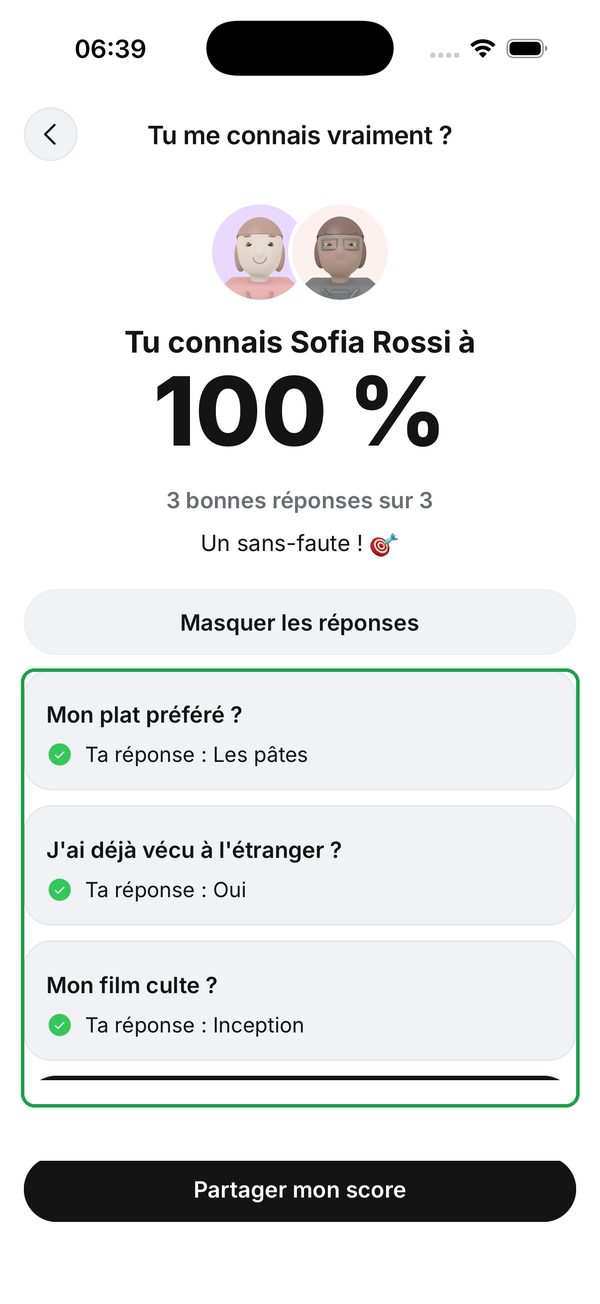
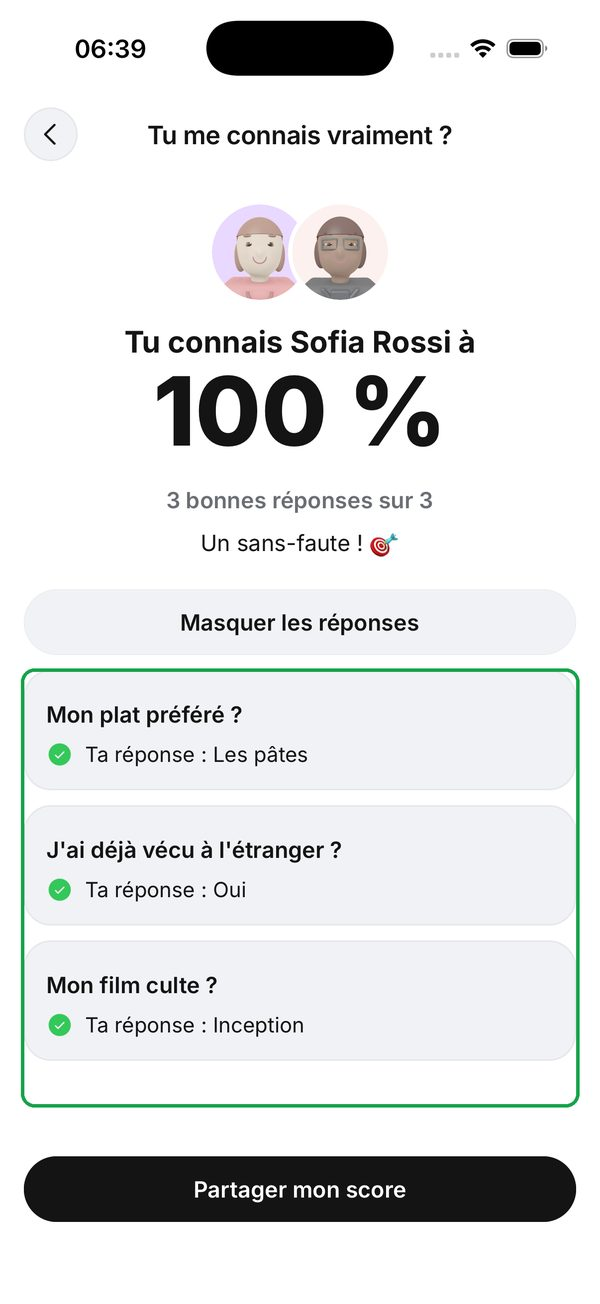
Musk, 2e passage : 34 points après relecture (deux déjà décidés ailleurs, 33 et 134) (e0)

Changed region(s): [[0.09, 0.7975, 0.93, 0.8282]]

diff --git a/musk-2/index.html b/musk-2/index.html
@@ -34,13 +34,13 @@ code { font-size:12px; background:var(--bg); border:1px solid var(--line); borde
 <body>
 <main>
 <h1>Take · loi de Musk, 2e passage</h1>
-<p class="lead">36 choses à enlever ou à simplifier (26 à supprimer · 5 à fusionner · 2 à cacher · 2 à simplifier · 1 à déplacer), tirées de 7 tours complets de l'app (275 écrans), chacune vérifiée dans le code de main. Aucune n'ajoute d'écran ni de bouton.</p>
+<p class="lead">34 choses à enlever ou à simplifier (25 à supprimer · 4 à fusionner · 2 à cacher · 2 à simplifier · 1 à déplacer), tirées de 7 tours complets de l'app (275 écrans), chacune vérifiée dans le code de main. Aucune n'ajoute d'écran ni de bouton.</p>
 <div class="box">
 <p><b>Comment lire.</b> À gauche, l'écran d'aujourd'hui, ce qui part en rouge. À droite, la solution, faite avec les vrais pixels de l'app, ce qui change en vert.</p>
 <p><b>Ce qui n'y est pas.</b> Les 122 points du premier passage, les 40 d'Unification et les 20 d'Espaces ne sont pas repris. Les points que tu as déjà refusés non plus.</p>
 <p><b>Contrôle.</b> Jev a relu chaque proposition contre les règles déjà tranchées. Il a écarté la barre des takes à note, que tu avais rendue noire le 25/09.</p>
 </div>
-<nav><a href="#t1">Navigation et réglages</a><a href="#t2">Le fil et un take</a><a href="#t3">La création</a><a href="#t4">Le profil et l&#x27;avatar</a><a href="#t5">Les messages</a><a href="#t6">L&#x27;activité et Explorer</a><a href="#t7">Sans compte et connexion</a><a href="#ecartes">Écartés</a></nav>
+<nav><a href="#t1">Navigation et réglages</a><a href="#t2">Le fil et un take</a><a href="#t3">La création</a><a href="#t4">Le profil et l&#x27;avatar</a><a href="#t5">Les messages</a><a href="#t6">L&#x27;activité et Explorer</a><a href="#t7">Sans compte et connexion</a><a href="#decides">Déjà décidés</a><a href="#ecartes">Écartés</a></nav>
 <h2 id="t1">Tour 1 · Navigation et réglages</h2>
 <article class="pt" id="p1">
   <h3><span class="n">1</span> <span class="tag">Supprimer</span> « 0 take » au-dessus de « Aucun take à proximité »</h3>
@@ -218,82 +218,70 @@ code { font-size:12px; background:var(--bg); border:1px solid var(--line); borde
   <p class="proof">Dans le code : app/(app)/(home)/messages/details.tsx:78-90 : titre et sous-titre tombent tous deux sur <code>username</code> quand le nom manque.</p>
 </article>
 <article class="pt" id="p26">
-  <h3><span class="n">26</span> <span class="tag">Supprimer</span> 100 %, 3 sur 3, sans-faute : trois fois la même chose</h3>
-  <div class="shots"><figure><img data-src="img/M34-avant.jpg" alt="100 %, 3 sur 3, sans-faute : trois fois la même chose" width="300" height="652" loading="lazy"><figcaption>Aujourd'hui</figcaption></figure><figure><img data-src="img/M34-apres.jpg" alt="Le grand pourcentage et la phrase qui réagit ; le détail est dans « Voir les réponses »." width="300" height="652" loading="lazy"><figcaption>Solution</figcaption></figure></div>
-  <p><b>Aujourd'hui.</b> Le résultat d&#x27;un Know me dit « 100 % », puis « 3 bonnes réponses sur 3 », puis « Un sans-faute ! ».</p>
-  <p><b>Solution.</b> Le grand pourcentage et la phrase qui réagit ; le détail est dans « Voir les réponses ».</p>
-  <p class="proof">Dans le code : fr.json:2947-2950 : <code>count_other</code> et <code>perfect</code>, affichés sous le pourcentage.</p>
-</article>
-<article class="pt" id="p27">
-  <h3><span class="n">27</span> <span class="tag">Supprimer</span> « Question 1 », « Question 2 »… sur chaque réponse</h3>
+  <h3><span class="n">26</span> <span class="tag">Supprimer</span> « Question 1 », « Question 2 »… sur chaque réponse</h3>
   <div class="shots"><figure><img data-src="img/M35-avant.jpg" alt="« Question 1 », « Question 2 »… sur chaque réponse" width="300" height="652" loading="lazy"><figcaption>Aujourd'hui</figcaption></figure><figure><img data-src="img/M35-apres.jpg" alt="La question et la réponse, sans numéro : l&#x27;ordre se voit." width="300" height="652" loading="lazy"><figcaption>Solution</figcaption></figure></div>
-  <p><b>Aujourd'hui.</b> Les réponses d&#x27;un Know me numérotent chaque carte en petit gris au-dessus de la question.</p>
+  <p><b>Aujourd'hui.</b> Les réponses d&#x27;un Know me numérotent chaque carte en petit gris au-dessus de la question. (Capture du 1er passage : le décompte et la phrase de niveau au-dessus sont déjà partis avec le point 134.)</p>
   <p><b>Solution.</b> La question et la réponse, sans numéro : l&#x27;ordre se voit.</p>
   <p class="proof">Dans le code : fr.json:2833 : <code>questionNumber</code>.</p>
 </article>
-<article class="pt" id="p28">
-  <h3><span class="n">28</span> <span class="tag">Supprimer</span> « Précédente » dans un quiz de deux questions</h3>
+<article class="pt" id="p27">
+  <h3><span class="n">27</span> <span class="tag">Supprimer</span> « Précédente » dans un quiz de deux questions</h3>
   <div class="shots"><figure><img data-src="img/M36-avant.jpg" alt="« Précédente » dans un quiz de deux questions" width="300" height="652" loading="lazy"><figcaption>Aujourd'hui</figcaption></figure><figure><img data-src="img/M36-apres.jpg" alt="Plus de retour en arrière : on répond, la question suivante arrive (125, accepté)." width="300" height="652" loading="lazy"><figcaption>Solution</figcaption></figure></div>
   <p><b>Aujourd'hui.</b> Un Know me de deux ou trois questions a un bouton « Précédente », grisé à la première.</p>
   <p><b>Solution.</b> Plus de retour en arrière : on répond, la question suivante arrive (125, accepté).</p>
   <p class="proof">Dans le code : fr.json:2928 : <code>previous</code>.</p>
 </article><h2 id="t6">Tour 6 · L&#x27;activité et Explorer</h2>
-<article class="pt" id="p29">
-  <h3><span class="n">29</span> <span class="tag">Supprimer</span> La pastille sur l&#x27;avatar qui redit le verbe</h3>
+<article class="pt" id="p28">
+  <h3><span class="n">28</span> <span class="tag">Supprimer</span> La pastille sur l&#x27;avatar qui redit le verbe</h3>
   <div class="shots"><figure><img data-src="img/M04-avant.jpg" alt="La pastille sur l&#x27;avatar qui redit le verbe" width="300" height="652" loading="lazy"><figcaption>Aujourd'hui</figcaption></figure><figure><img data-src="img/M04-apres.jpg" alt="L&#x27;avatar seul : la phrase porte l&#x27;action." width="300" height="652" loading="lazy"><figcaption>Solution</figcaption></figure></div>
   <p><b>Aujourd'hui.</b> Chaque ligne d&#x27;Activité pose une pastille sur l&#x27;avatar (repost, vote, Top 8) alors que la phrase dit déjà « a reposté », « a voté ».</p>
   <p><b>Solution.</b> L&#x27;avatar seul : la phrase porte l&#x27;action.</p>
   <p class="proof">Dans le code : app/(app)/notifications.tsx:188 : <code>NotificationBadge</code> sur chaque ligne à un seul acteur, sauf les amis acceptés.</p>
 </article>
-<article class="pt" id="p30">
-  <h3><span class="n">30</span> <span class="tag">Fusionner</span> Trois lignes « a accepté ta demande d&#x27;ami » le même jour</h3>
+<article class="pt" id="p29">
+  <h3><span class="n">29</span> <span class="tag">Fusionner</span> Trois lignes « a accepté ta demande d&#x27;ami » le même jour</h3>
   <div class="shots"><figure><img data-src="img/M05-avant.jpg" alt="Trois lignes « a accepté ta demande d&#x27;ami » le même jour" width="300" height="652" loading="lazy"><figcaption>Aujourd'hui</figcaption></figure><figure><img data-src="img/M05-apres.jpg" alt="Une ligne, deux visages : « Noah Williams, Sofia Rossi et 1 autre ont accepté ta demande d&#x27;ami »." width="300" height="652" loading="lazy"><figcaption>Solution</figcaption></figure></div>
   <p><b>Aujourd'hui.</b> Noah, Sofia et Léo ont accepté le même jour : trois lignes presque identiques, quand deux reposts du même take tiennent déjà en une.</p>
   <p><b>Solution.</b> Une ligne, deux visages : « Noah Williams, Sofia Rossi et 1 autre ont accepté ta demande d&#x27;ami ».</p>
   <p class="proof">Dans le code : app/(app)/notifications.tsx:169 : <code>NotificationFaces</code> existe déjà pour les groupes ; les acceptations d&#x27;amis ne sont pas regroupées.</p>
 </article>
-<article class="pt" id="p31">
-  <h3><span class="n">31</span> <span class="tag">Supprimer</span> Cinq filtres pour une vingtaine de lignes</h3>
+<article class="pt" id="p30">
+  <h3><span class="n">30</span> <span class="tag">Supprimer</span> Cinq filtres pour une vingtaine de lignes</h3>
   <div class="shots"><figure><img data-src="img/M06-avant.jpg" alt="Cinq filtres pour une vingtaine de lignes" width="300" height="652" loading="lazy"><figcaption>Aujourd'hui</figcaption></figure><figure><img data-src="img/M06-apres.jpg" alt="Une seule liste, celle de « Tout » : on lit son activité, on ne la trie pas." width="300" height="652" loading="lazy"><figcaption>Solution</figcaption></figure></div>
   <p><b>Aujourd'hui.</b> Tout, Votes, Commentaires, Questions et Abonnements (caché à droite). Au tour 6, Commentaires et Questions étaient vides, chacun avec son « Lancer un take », et Votes mêlait reposts et votes.</p>
   <p><b>Solution.</b> Une seule liste, celle de « Tout » : on lit son activité, on ne la trie pas.</p>
   <p class="proof">Dans le code : app/(app)/notifications.tsx:87 : <code>ACTIVITY_FILTERS</code> = all, votes, comments, questions, follows.</p>
 </article>
-<article class="pt" id="p32">
-  <h3><span class="n">32</span> <span class="tag">Supprimer</span> « · Politique » dans l&#x27;onglet Politique</h3>
+<article class="pt" id="p31">
+  <h3><span class="n">31</span> <span class="tag">Supprimer</span> « · Politique » dans l&#x27;onglet Politique</h3>
   <div class="shots"><figure><img data-src="img/M09-avant.jpg" alt="« · Politique » dans l&#x27;onglet Politique" width="300" height="652" loading="lazy"><figcaption>Aujourd'hui</figcaption></figure><figure><img data-src="img/M09-apres.jpg" alt="« 5 votes » seul dans une rubrique ; le nom ne sert que dans Tendances, qui mêle les rubriques." width="300" height="652" loading="lazy"><figcaption>Solution</figcaption></figure></div>
   <p><b>Aujourd'hui.</b> Le n°1 de chaque rubrique d&#x27;Explorer porte le nom de la rubrique : « 5 votes · Politique » sous l&#x27;onglet Politique souligné, « 7 votes · Divertissement » sous Divertissement…</p>
   <p><b>Solution.</b> « 5 votes » seul dans une rubrique ; le nom ne sert que dans Tendances, qui mêle les rubriques.</p>
   <p class="proof">Dans le code : src/components/search/ExploreScreen.tsx:1034 : <code>explore.trendMeta</code> reçoit toujours la catégorie.</p>
 </article>
-<article class="pt" id="p33">
-  <h3><span class="n">33</span> <span class="tag">Supprimer</span> Le point rouge qui pulse en continu</h3>
+<article class="pt" id="p32">
+  <h3><span class="n">32</span> <span class="tag">Supprimer</span> Le point rouge qui pulse en continu</h3>
   <div class="shots"><figure><img data-src="img/M10-avant.jpg" alt="Le point rouge qui pulse en continu" width="300" height="652" loading="lazy"><figcaption>Aujourd'hui</figcaption></figure><figure><img data-src="img/M10-apres.jpg" alt="Rien : le rang « 1 » dit déjà que c&#x27;est le premier." width="300" height="652" loading="lazy"><figcaption>Solution</figcaption></figure></div>
   <p><b>Aujourd'hui.</b> À droite du n°1 de chaque rubrique, un point rouge pulse sans fin, sans légende ni action. Le même genre de pastille pulsante avait déjà été refusé dans le direct.</p>
   <p><b>Solution.</b> Rien : le rang « 1 » dit déjà que c&#x27;est le premier.</p>
   <p class="proof">Dans le code : src/components/search/TrendRanking.tsx:67 : <code>TrendLiveDot</code>, un halo répété sans fin (<code>withRepeat(…, -1)</code>) tant que l&#x27;écran est visible.</p>
 </article>
-<article class="pt" id="p34">
-  <h3><span class="n">34</span> <span class="tag">Supprimer</span> « Tendances liées » au-dessus des résultats</h3>
+<article class="pt" id="p33">
+  <h3><span class="n">33</span> <span class="tag">Supprimer</span> « Tendances liées » au-dessus des résultats</h3>
   <div class="shots"><figure><img data-src="img/M11-avant.jpg" alt="« Tendances liées » au-dessus des résultats" width="300" height="652" loading="lazy"><figcaption>Aujourd'hui</figcaption></figure><figure><img data-src="img/M11-apres.jpg" alt="Les résultats directement sous le champ, qui dit déjà ce qu&#x27;on cherche." width="300" height="652" loading="lazy"><figcaption>Solution</figcaption></figure></div>
   <p><b>Aujourd'hui.</b> On tape « vote » : un grand titre « • Tendances liées » et « Ce qui buzze autour de « vote » » précèdent les takes trouvés.</p>
   <p><b>Solution.</b> Les résultats directement sous le champ, qui dit déjà ce qu&#x27;on cherche.</p>
   <p class="proof">Dans le code : src/components/search/ExploreScreen.tsx : <code>explore.relatedTrends</code> et <code>explore.relatedSub</code> au-dessus de <code>relatedTrends</code>.</p>
 </article><h2 id="t7">Tour 7 · Sans compte et connexion</h2>
-<article class="pt" id="p35">
-  <h3><span class="n">35</span> <span class="tag">Fusionner</span> « Se connecter » et « S&#x27;inscrire » mènent au même écran</h3>
-  <div class="shots"><figure><img data-src="img/M37-avant.jpg" alt="« Se connecter » et « S&#x27;inscrire » mènent au même écran" width="300" height="652" loading="lazy"><figcaption>Aujourd'hui</figcaption></figure><figure><img data-src="img/M37-apres.jpg" alt="Un seul « Continuer avec un e-mail », le bouton que le mur sans compte utilise déjà." width="300" height="652" loading="lazy"><figcaption>Solution</figcaption></figure></div>
-  <p><b>Aujourd'hui.</b> L&#x27;accueil propose les deux. Le premier ouvre « Ton e-mail », le second « Crée ton compte » : même champ, même « Recevoir le code ». Seul le titre change.</p>
-  <p><b>Solution.</b> Un seul « Continuer avec un e-mail », le bouton que le mur sans compte utilise déjà.</p>
-  <p class="proof">Dans le code : app/(auth)/email.tsx:42 et 144 : <code>signingUp</code> ne change que le titre.</p>
-</article>
-<article class="pt" id="p36">
-  <h3><span class="n">36</span> <span class="tag">Supprimer</span> Le bouton « Coller le code »</h3>
+<article class="pt" id="p34">
+  <h3><span class="n">34</span> <span class="tag">Supprimer</span> Le bouton « Coller le code »</h3>
   <div class="shots"><figure><img data-src="img/M38-avant.jpg" alt="Le bouton « Coller le code »" width="300" height="652" loading="lazy"><figcaption>Aujourd'hui</figcaption></figure><figure><img data-src="img/M38-apres.jpg" alt="Plus de bouton : la suggestion d&#x27;iOS, ou un appui long pour coller." width="300" height="652" loading="lazy"><figcaption>Solution</figcaption></figure></div>
   <p><b>Aujourd'hui.</b> L&#x27;écran du code a un bouton « Coller le code », alors que le champ est déjà marqué pour iOS : le code reçu par Mail s&#x27;affiche au-dessus du clavier, en un appui.</p>
   <p><b>Solution.</b> Plus de bouton : la suggestion d&#x27;iOS, ou un appui long pour coller.</p>
   <p class="proof">Dans le code : app/(auth)/code.tsx:237 (<code>textContentType=&quot;oneTimeCode&quot;</code>) et 263-271 (<code>pasteCode</code>).</p>
 </article>
+<h2 id="decides">Déjà décidés ailleurs</h2>
+<ul class="box"><li><b>« Se connecter » et « S'inscrire » mènent au même écran</b> : c'est le point Musk 33, déjà décidé, en cours chez a8.</li><li><b>« 100 % », « 3 bonnes réponses sur 3 » et « Un sans-faute ! »</b> : réglé par le point 134 (#2674), le résultat garde le grand chiffre et sa phrase.</li></ul>
 <h2 id="ecartes">Regardés, puis écartés</h2>
 <ul class="box"><li><b>« Tu es en public » quand on quitte l&#x27;anonymat</b> : voulu par toi (25/09, puis message universel le 30/09).</li><li><b>Le « ● 1 » des présents dans le direct</b> : décidé : le zéro et le un s&#x27;affichent, la pastille pulsante avait été refusée.</li><li><b>Le faux profil « @toi » sans compte</b> : voulu par toi le 25/09 : sans compte, les écrans personnels gardent leur forme vide.</li><li><b>La barre des takes à note</b> : tu l&#x27;as rendue noire le 25/09 ; Jev : la retirer contredit cette décision (0,92).</li><li><b>Les croix sur Choix 1 et Choix 2</b> : elles servent dès qu&#x27;il y a trois choix : on peut retirer n&#x27;importe lequel.</li><li><b>Google et Apple qui répondent « bientôt disponible »</b> : le refus vient de la machine locale, sans clés ; à vérifier sur staging avant d&#x27;en faire un point.</li><li><b>« Partager » dans le menu du take ouvert</b> : c&#x27;est le seul bouton de partage de cet écran.</li><li><b>« Actuellement @ava_martin » sous le nom d&#x27;utilisateur</b> : utile pendant qu&#x27;on tape le nouveau.</li><li><b>Le champ « Une question à laquelle tu veux répondre… »</b> : c&#x27;est une fonction (se poser une question), pas un doublon.</li><li><b>Tendances et Actu vides en tête d&#x27;Explorer</b> : données locales ; rien ne prouve le cas en production.</li></ul>
 </main>
